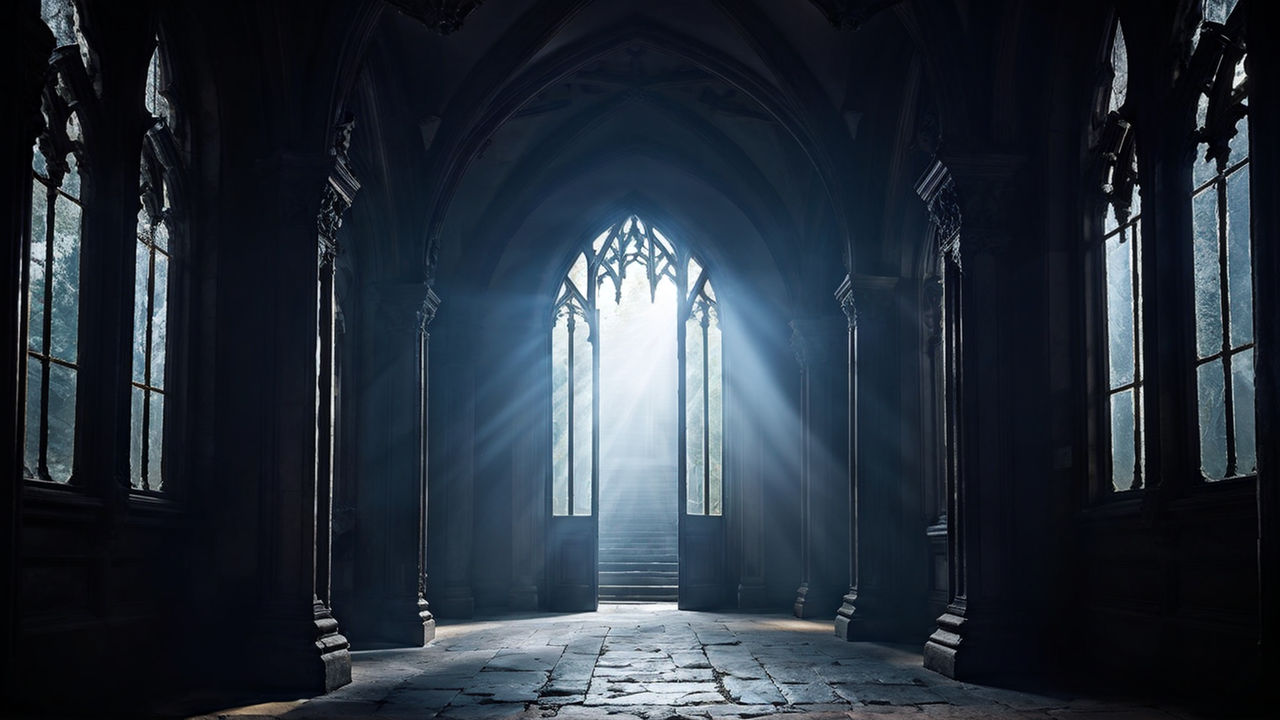
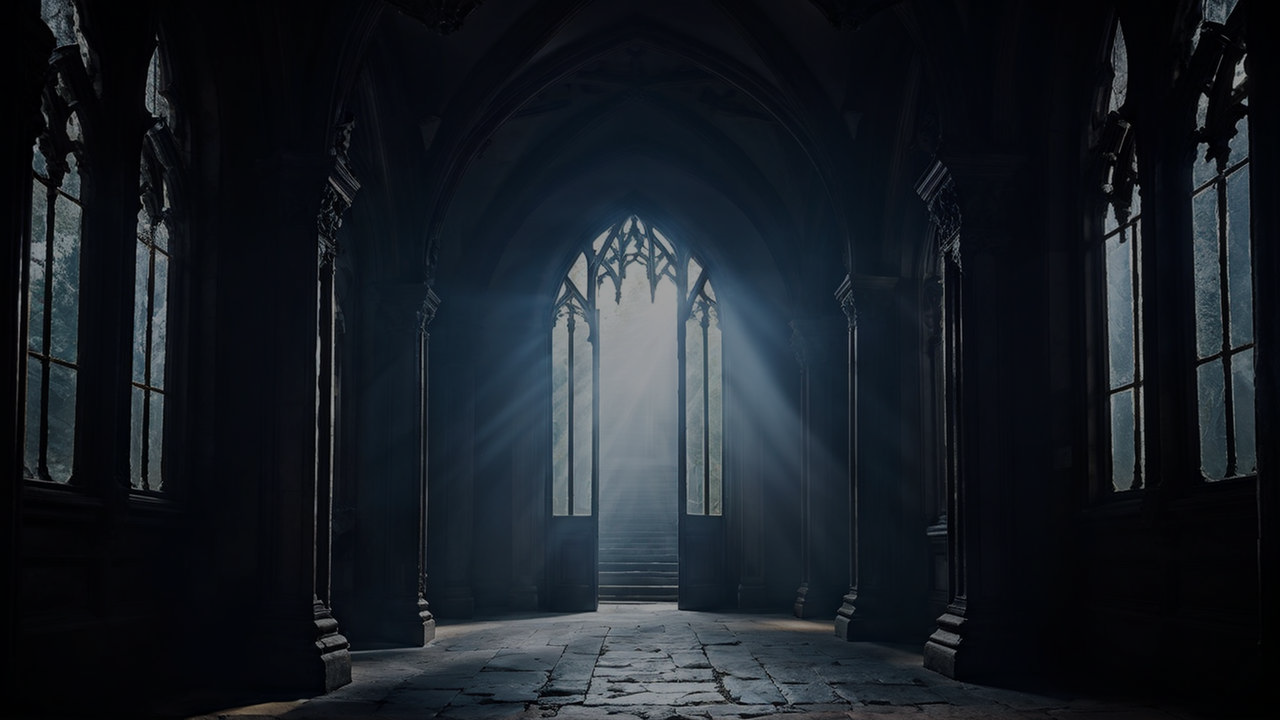
añadi diversos sondidos, textView a la hora de caerse, y otro tipo de corazon para agarrar con una animacion

diff --git a/Assets/Scripts/room.py b/Assets/Scripts/room.py
@@ -11,15 +11,35 @@ import sounds
 from textView import TextView
 import pygame
 import json
+import functions
 
 class Key(arcade.Sprite):
-    def __init__(self, filename: str = None, scale: float = 1, image_x: float = 0, image_y: float = 0, image_width: float = 0, image_height: float = 0, center_x: float = 0, center_y: float = 0, repeat_count_x: int = 1, repeat_count_y: int = 1, flipped_horizontally: bool = False, flipped_vertically: bool = False, flipped_diagonally: bool = False, hit_box_algorithm: str | None = "Simple", hit_box_detail: float = 4.5, texture: arcade.Texture = None, angle: float = 0,questionMenu: QuestionMenu = None):
-        super().__init__(filename, scale, image_x, image_y, image_width, image_height, center_x, center_y, repeat_count_x, repeat_count_y, flipped_horizontally, flipped_vertically, flipped_diagonally, hit_box_algorithm, hit_box_detail, texture, angle)
+    def __init__(self,x,y, filename: str = None, scale: float = 1,questionMenu: QuestionMenu = None):
+        super().__init__(filename = filename,scale = scale, center_x= x, center_y=y)
         
         self.canPass = False
         self.questionMenu = questionMenu
 
-
+class Life(arcade.Sprite):
+    
+    def __init__(self, filename: str = "Assets/Sprites/UI/PickupHeart/tile000.png", x = 0,y = 0):
+        super().__init__(filename, scale = 2, center_x=x,center_y=y)
+        self.time = 0
+        self.animationIndex = 0
+        self.spriteList = functions.createAnimationList("Assets//Sprites//UI//PickupHeart//tile00",6)
+        self.scale = 3
+    def update_animation(self, delta_time: float = 1 / 60):
+        self.time += delta_time
+        
+        if self.time >= .15:
+            if self.animationIndex == len(self.spriteList) - 1:
+                self.animationIndex = 0
+            else:
+                self.animationIndex += 1
+            self.texture = self.spriteList[self.animationIndex]
+            self.time = 0  
+        
+    
 class Room(arcade.View):
     global globalVars
     
@@ -33,8 +53,10 @@ class Room(arcade.View):
         jsonData = json.loads(data)
         keys = jsonData["keys"]
         lifes = jsonData["lifes"]
-        
-        self.falseFloorView = TextView(self.window,"Has caído en un pozo oculto, el castillo guarda más secretos de los que imaginabas.",self,quickPass=True)
+        self.falseFloorbgs = ["hole1","hole2","hole3","hole4","hole5"]
+        self.falseFloorTexts = ["Has caído en un pozo oculto, el castillo guarda más secretos de los que imaginabas.","Has caído en un pozo oculto, cuidado con tus pasos en la oscuridad.","Te has caído en un pozo oculto, vigila mejor tus pasos.","Has caído en un pozo escondido, este castillo tiene trampas inesperadas.","Te has tropezado con un pozo oculto, parece que el castillo no ha revelado todos sus secretos.","Un pozo oculto te ha sorprendido, el camino es más peligroso de lo que pensabas.","Has caído en un pozo oculto, el castillo es más traicionero de lo que parece."]
+
+        self.holeTexts = ["Has caído en un pozo por descuido, un paso en falso te ha costado caro.","Has caído en un pozo, la prisa te jugó una mala pasada.","Te has tropezado y caído en un pozo, un error torpe en el momento equivocado.","Has caído en un pozo, un pequeño desliz y aquí estás.","Has caído en un pozo, un paso en falso fue todo lo que necesitó.","Te has caído en un pozo, un error tonto que te costó caro.","Has caído en un pozo, un tropiezo que no viste venir."]
         
         self.canPass = False
         self.nextRoom = nextRoom
@@ -50,22 +72,19 @@ class Room(arcade.View):
         self.scene.add_sprite_list("Key")
         self.scene.add_sprite_list("Life")
         
-    
-        
         for key in keys:
             with open(key["qm"]["questions"],"r") as f:
                 data = f.read()
             questions = json.loads(data)
             qm = QuestionMenu(self.window,questions,self.game,menu,key["qm"]["op"],key["qm"]["qq"])
-            
-            newKey = Key(filename=key["filename"],center_x=key["center_x"], center_y=key["center_y"],questionMenu=qm,scale=key["scale"])
+            newKey = Key(filename=key["filename"],x=key["center_x"], y=key["center_y"],questionMenu=qm,scale=key["scale"])
             newKey.questionMenu.gameView = self
-            
             self.scene.add_sprite("Key",newKey)
             
         for life in lifes:
-            sprite = arcade.Sprite("Assets/Sprites/UI/fillHeart.png",2,center_x=life["x"],center_y=life["y"])
+            sprite = Life(x= life["x"],y=life["y"])
             self.scene.add_sprite("Life",sprite)
+            
         self.menu = menu
         self.x = jsonData["setup"]["playerX"]
         self.y = jsonData["setup"]["playerY"]
@@ -137,9 +156,9 @@ class Room(arcade.View):
         
         
         self.interface = arcade.gui.UIManager()
-        self.ambient: pygame.mixer.Sound = sounds.ambient[random.randint(0,2)]
-        self.channel = self.ambient.play()  
-        self.channel.stop()           
+        
+         
+               
 
     def centerCameraFromPlayer(self):
         
@@ -161,7 +180,6 @@ class Room(arcade.View):
         self.player.moveLeft = False
         self.player.moveRight = False
         self.player.moveUp = False
-        self.channel.stop()
     
     def on_show(self):
         self.player.center_x = self.lastX
@@ -277,9 +295,10 @@ class Room(arcade.View):
             self.lastLifes = globalVars.LIFES
             sounds.lostlife.play()
         self.canPass = self.checkKeys()
-        if not self.channel.get_busy() and isinstance(self.window.current_view,self.__class__):
-            self.ambient = sounds.ambient[random.randint(0,2)]
-            self.channel = self.ambient.play()
+        if not globalVars.MUSIC.get_busy() and isinstance(self.window.current_view,self.__class__):
+            globalVars.MUSIC = sounds.ambient[random.randint(0,2)]
+            globalVars.MUSIC = globalVars.MUSIC.play()
+            
 
         for life in arcade.check_for_collision_with_list(self.player,self.scene["Life"]):
             if globalVars.LIFES < globalVars.TOTAL_LIFES:
@@ -293,11 +312,14 @@ class Room(arcade.View):
         if self.holes and not self.bridges:
             for i in range(len(self.holes)):
                 if arcade.check_for_collision_with_list(self.player,self.scene[self.holes[i]]):
+                    sounds.fall1.play()
+                    self.holeView = TextView(self.window,self.holeTexts[random.randint(0,len(self.holeTexts)-1)],self,bg=f"Assets/Backgrounds/{self.falseFloorbgs[random.randint(0,len(self.falseFloorbgs)-1)]}.jpg",quickPass=True)
                     self.player.center_x = self.lastX
                     self.player.center_y = self.lastY
                     globalVars.LIFES -= 1
                     if globalVars.APPEND_LIFES > 0:
                         globalVars.APPEND_LIFES -= 1
+                    self.window.show_view(self.holeView)
         else:
             for hole in self.holes:
                 for bridge in self.bridges:
@@ -308,22 +330,27 @@ class Room(arcade.View):
                             break                        
                     if haveTouch:
                         if arcade.check_for_collision_with_list(self.player,self.scene[hole]) and not arcade.check_for_collision_with_list(self.player,self.scene[bridge]):
+                            sounds.fall1.play()
+                            self.holeView = TextView(self.window,self.holeTexts[random.randint(0,len(self.holeTexts)-1)],self,bg=f"Assets/Backgrounds/{self.falseFloorbgs[random.randint(0,len(self.falseFloorbgs)-1)]}.jpg",quickPass=True)
                             self.player.center_x = self.lastX
                             self.player.center_y = self.lastY
                             globalVars.LIFES -= 1
                             if globalVars.APPEND_LIFES > 0:
                                 globalVars.APPEND_LIFES -= 1
+                            self.window.show_view(self.holeView)
         if self.falseFloors and not self.manualBridges:
             try:    
                 for i in range(len(self.falseFloors)):
                     if arcade.check_for_collision_with_list(self.player,self.scene[self.falseFloors[i]]):
-                        
+                        sounds.fall1.play()
+                        self.falseFloorView = TextView(self.window,self.falseFloorbgs[random.randint(0,len(self.falseFloorTexts)-1)],self,bg=f"Assets/Backgrounds/{self.falseFloorbgs[random.randint(0,len(self.falseFloorbgs)-1)]}.jpg",quickPass=True,time=3)
                         self.scene[self.falseFloors[i]].visible = True
                         self.player.center_x = self.lastX
                         self.player.center_y = self.lastY
                         globalVars.LIFES -= 1
                         if globalVars.APPEND_LIFES > 0:
                             globalVars.APPEND_LIFES -= 1
+                        
                         self.window.show_view(self.falseFloorView)
             except:
                 pass
@@ -341,6 +368,8 @@ class Room(arcade.View):
                                 print("Toca con puente")
                                 continue
                             elif arcade.check_for_collision_with_list(self.player,self.scene[floor]):
+                                sounds.fall1.play()
+                                self.falseFloorView = TextView(self.window,self.falseFloorbgs[random.randint(0,len(self.falseFloorTexts)-1)],self,bg=f"Assets/Backgrounds/{self.falseFloorbgs[random.randint(0,len(self.falseFloorbgs)-1)]}.jpg",quickPass=True,time=3)
                                 self.scene[floor].visible = True
                                 self.player.center_x = self.lastX
                                 self.player.center_y = self.lastY
@@ -354,6 +383,7 @@ class Room(arcade.View):
         self.centerCameraFromPlayer()
         self.physicsEngine.update()
         self.scene.get_sprite_list("Player").update_animation()
+        self.scene.get_sprite_list("Life").update_animation()
         if self.canPass:
             
             self.window.show_view(self.nextRoom)

diff --git a/Assets/Scripts/Game.py b/Assets/Scripts/Game.py
@@ -31,11 +31,11 @@ class Game(arcade.View):
         
         self.secondLevel = Room(self.window,menu,self,"Assets/Scripts/levelsInformation/level1.json",self.afterSecond)
         
-        self.afterFirst = TextView(self.window,'Con el primer libro en tus manos, sientes una presencia extraña en el castillo. Mientras exploras, encuentras una inscripción en una pared que menciona a un caballero valiente con una figura triste, perdido en el tiempo y en busca de aventuras imposibles. La leyenda de este caballero parece inspirar la valentía necesaria para seguir adelante. Sigues tu camino, sabiendo que el próximo libro te espera.',self.secondLevel)
+        self.afterFirst = TextView(self.window,'Con el primer libro en tus manos, sientes una presencia extraña en el castillo. Mientras exploras, encuentras una inscripción en una pared que menciona a un caballero valiente con una figura triste, perdido en el tiempo y en busca de aventuras imposibles. La leyenda de este caballero parece inspirar la valentía necesaria para seguir adelante. Sigues tu camino, sabiendo que el próximo libro te espera.',self.secondLevel,bg="Assets/Backgrounds/hole1.jpg")
         
         self.firstLevel = Room(self.window,menu,self,"Assets/Scripts/levelsInformation/level1.json",self.afterFirst)
         
-        self.firstTextTwo = TextView(self.window,'Hace poco, encontraste un mapa antiguo en una librería polvorienta, que indicaba la ubicación del castillo perdido. En el rincón de la librería, te llamó la atención un libro con una ilustración de un caballero de triste figura, un símbolo de alguien que parecía haber sido olvidado por el tiempo. Intrigado por la promesa de conocimiento y misterio, te aventuraste a explorar los antiguos salones del castillo. Sabes que superar este desafío no solo te dará acceso a sabiduría prohibida, sino que también resolverá un enigma que ha perdurado durante siglos.',self.firstLevel)
+        self.firstTextTwo = TextView(self.window,'Hace poco, encontraste un mapa antiguo en una librería polvorienta, que indicaba la ubicación del castillo perdido. En el rincón de la librería, te llamó la atención un libro con una ilustración de un caballero de triste figura, un símbolo de alguien que parecía haber sido olvidado por el tiempo. Intrigado por la promesa de conocimiento y misterio, te aventuraste a explorar los antiguos salones del castillo. Sabes que superar este desafío no solo te dará acceso a sabiduría prohibida, sino que también resolverá un enigma que ha perdurado durante siglos.',self.firstLevel,bg="Assets/Backgrounds/bookmap.jpg")
         self.firstTextOne = TextView(self.window,'Te encuentras en el Castillo de Arcanum, un lugar antiguo y lleno de misterio. Hace siglos, el mago Alden escondió en este castillo los libros más valiosos de la literatura. Para preservar su conocimiento, creó un desafío: solo quien pudiera encontrar los libros y responder las preguntas literarias podría acceder a su sabiduría.',self.firstTextTwo,bg="Assets/Backgrounds/hallway.jpeg")
         
     def on_update(self, delta_time: float):

diff --git a/Assets/Scripts/textView.py b/Assets/Scripts/textView.py
@@ -7,12 +7,13 @@ class TextView(arcade.View):
         "font_name": "Retro Gaming",
         "bg_color": None,
         "bg_color_pressed": None,
-        "border_color": arcade.color.WHITE,
+        "border_color": None,
         "font_size": 16
-    }, bg="Assets/Backgrounds/black.jpg",quickPass = False):
+    }, bg="Assets/Backgrounds/black.jpg",quickPass = False,time = 2):
         super().__init__(window)
         self.canPass = False
         self.quickPass = quickPass
+        self.time = time
         self.text = text
         self.nextView = nextView
         self.textsParts = self.text.split(" ")
@@ -20,6 +21,7 @@ class TextView(arcade.View):
         self.currentText = ""
         self.currentTime = 0
         self.label = self.makeText()
+        self.image = bg
         self.bg = arcade.load_texture(bg)
         self.touchedKey = False
         self.sound = sounds.writes[random.randint(0,3)]
@@ -65,7 +67,7 @@ class TextView(arcade.View):
         self.touchedKey = False
         self.sound = sounds.writes[random.randint(0,3)]
         self.maxTime = 0
-
+        self.bg = arcade.load_texture(self.image)
     def on_update(self, delta_time: float):
         self.currentTime += delta_time
         if not self.quickPass:
@@ -93,6 +95,6 @@ class TextView(arcade.View):
                 self.sound.play()    
             if len(self.textsParts) == 0:
                 self.maxTime += delta_time
-                if self.maxTime >= 2:
+                if self.maxTime >= self.time:
                     self.window.show_view(self.nextView)
         

diff --git a/Assets/Scripts/sounds.py b/Assets/Scripts/sounds.py
@@ -16,7 +16,9 @@ writes = [write1, write2, write3,write4]
 footstep1 = Sound("Sounds/footstep1.mp3")
 footstep2 = Sound("Sounds/footstep2.mp3")
 footstep3 = Sound("Sounds/footstep3.mp3")
-
+footstep1.set_volume(.5)
+footstep2.set_volume(.5)
+footstep3.set_volume(.5)
 footsteps = [footstep1, footstep2, footstep3]
 
 ambient:Sound = []
@@ -28,3 +30,5 @@ mechanism = Sound("Sounds/mechanism.mp3")
 getlife1 = Sound("Sounds/getlife1.mp3")
 
 lostlife = Sound("Sounds/lostlife.mp3")
+
+fall1 = Sound("Sounds/fall1.mp3")

diff --git a/Assets/Scripts/globalVars.py b/Assets/Scripts/globalVars.py
@@ -1,5 +1,13 @@
 from copy import copy
+import sounds
+import random
+import pygame
 
 LIFES = 3
 TOTAL_LIFES = copy(LIFES)
 APPEND_LIFES = 0
+
+MUSIC: pygame.mixer.Sound = sounds.ambient[random.randint(0,2)]
+MUSIC = MUSIC.play()
+MUSIC.stop()
+
